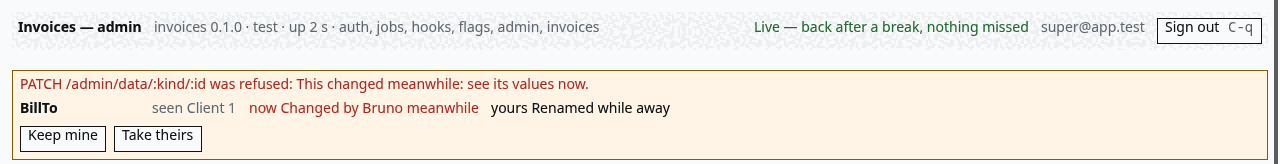
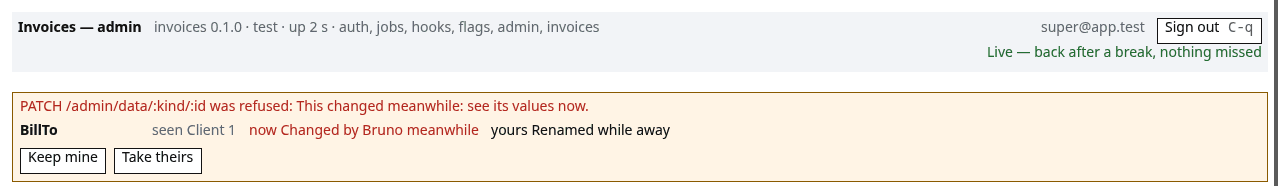
docs: the pictures of When the connection drops taken again in English and in French, the line of the connection on a row of its own in the band

diff --git a/docs/fr/book/connection.md b/docs/fr/book/connection.md
@@ -42,10 +42,10 @@ key = "k"
 
 ## 1. La ligne qui le dit
 
-Le bandeau des pages d'admin montre, à sa droite et en mots, l'état de la connexion de la page à son app (ici les pages
-en français : chaque texte de la ligne passe par le catalogue, `pages.Words`) :
+Le bandeau des pages d'admin montre, en mots, sur une ligne à lui à sa droite, l'état de la connexion de la page à son
+app (ici les pages en français : chaque texte de la ligne passe par le catalogue, `pages.Words`) :
 
-![Le bandeau des pages d'admin : « Factures — administration », le nom et la version de l'app, puis « Direct » en vert, l'e-mail du super-admin et Se déconnecter.](images/drop-live.png)
+![Le bandeau des pages d'admin : « Factures — administration », le nom et la version de l'app, l'e-mail du super-admin et Se déconnecter, et dessous, à droite, « Direct » en vert.](images/drop-live.png)
 
 La ligne est `web.Connection(p)`, un *widget* de Ceres (un élément d'écran tout prêt) que toute page peut montrer ;
 une page en JavaScript reçoit le même état par `live.onStatus`. Elle dit, par ordre d'importance :
@@ -73,7 +73,7 @@ La comptable continue de travailler : elle change le nom du client sur une factu
 payée. La page montre ce qu'elle montrait avant (une liste demandée à nouveau garde ses lignes jusqu'à l'arrivée des
 nouvelles), et les deux changements attendent :
 
-![Le bandeau pendant la coupure du réseau : « Hors ligne, pas de réseau — 2 actions en attente · prochain essai dans 2 s » en orange, et le bouton Réessayer maintenant.](images/drop-offline.png)
+![Le bandeau pendant la coupure du réseau : sous sa première ligne, « Hors ligne, pas de réseau — 2 actions en attente · prochain essai dans 1 s » en orange, et le bouton Réessayer maintenant.](images/drop-offline.png)
 
 Chaque action attend **dans l'ordre**, avec une **Idempotency-Key** créée au moment où elle a été demandée : un nom
 tiré au hasard, de 128 bits, que l'app garde avec la réponse de l'action, pour que la même action envoyée à nouveau
@@ -103,7 +103,7 @@ Puis les deux changements partent, dans l'ordre. Le paiement est fait une fois. 
 Bruno, dans un autre bureau, a renommé le client entre-temps. La page le montre, avec la valeur vue, la valeur
 actuelle et la sienne, et les deux choix :
 
-![Le bandeau dit « Direct — de retour après une coupure, rien de manqué » ; dessous, dans un cadre, « PATCH /admin/data/:kind/:id a été refusée : Cela a changé entre-temps : voyez ses valeurs maintenant. », le champ BillTo, « vu Client 1 », « maintenant Changed by Bruno meanwhile » en rouge, « le vôtre Renamed while away », et les boutons Garder le mien et Prendre le leur.](images/drop-conflict.png)
+![Le bandeau dit « Direct — de retour après une coupure, rien de manqué » ; sous le bandeau, dans un cadre, « PATCH /admin/data/:kind/:id a été refusée : Cela a changé entre-temps : voyez ses valeurs maintenant. », le champ BillTo, « vu Client 1 », « maintenant Changed by Bruno meanwhile » en rouge, « le vôtre Renamed while away », et les boutons Garder le mien et Prendre le leur.](images/drop-conflict.png)
 
 **Garder le mien** renvoie le changement par-dessus la valeur actuelle ; **Prendre le leur** l'abandonne. Rien n'est
 écrasé en silence.

diff --git a/docs/book/connection.md b/docs/book/connection.md
@@ -38,9 +38,10 @@ key = "k"
 
 ## 1. The line that says it
 
-The band of the admin pages shows the state of the page's connection to its app, in words, at its right:
+The band of the admin pages shows the state of the page's connection to its app, in words, on a line of its own at
+its right:
 
-![The band of the admin pages: "Invoices — admin", the app's name and version, then "Live" in green, the e-mail of the super-admin and Sign out.](images/drop-live.png)
+![The band of the admin pages: "Invoices — admin", the app's name and version, the e-mail of the super-admin and Sign out, and under them, at the right, "Live" in green.](images/drop-live.png)
 
 The line is `web.Connection(p)`, a widget of Ceres any page can show; a page in JavaScript gets the same state from
 `live.onStatus`. It says, in this order of what matters:
@@ -67,7 +68,7 @@ other side still hears.
 The accountant keeps working: she changes the client's name on an invoice and saves, then marks it paid. The page
 shows what it showed before (a list asked again keeps its rows until the new ones come), and the two changes wait:
 
-![The band while the network is cut: "Offline, no network — 2 actions waiting · next try in 7 s" in amber, and the button Try now.](images/drop-offline.png)
+![The band while the network is cut: under its first line, "Offline, no network — 2 actions waiting · next try in 1 s" in amber, and the button Try now.](images/drop-offline.png)
 
 Each action waits **in order**, with an **Idempotency-Key** made when it was asked: a random name of 128 bits that
 the app keeps with the action's answer, so that the same action sent again gets the first answer instead of running
@@ -94,7 +95,7 @@ Then the two changes go, in order. The payment is made once. The change of the n
 office, renamed the client meanwhile. The page shows it, with the value seen, the value now and its own, and the two
 choices:
 
-![The band says "Live — back after a break, nothing missed"; under it, in a frame, "PATCH /admin/data/:kind/:id was refused: This changed meanwhile: see its values now.", the field BillTo, "seen Client 1", "now Changed by Bruno meanwhile" in red, "yours Renamed while away", and the buttons Keep mine and Take theirs.](images/drop-conflict.png)
+![The band says "Live — back after a break, nothing missed"; under the band, in a frame, "PATCH /admin/data/:kind/:id was refused: This changed meanwhile: see its values now.", the field BillTo, "seen Client 1", "now Changed by Bruno meanwhile" in red, "yours Renamed while away", and the buttons Keep mine and Take theirs.](images/drop-conflict.png)
 
 **Keep mine** sends the change again over the value now; **Take theirs** drops it. Nothing is written over in silence.
 
